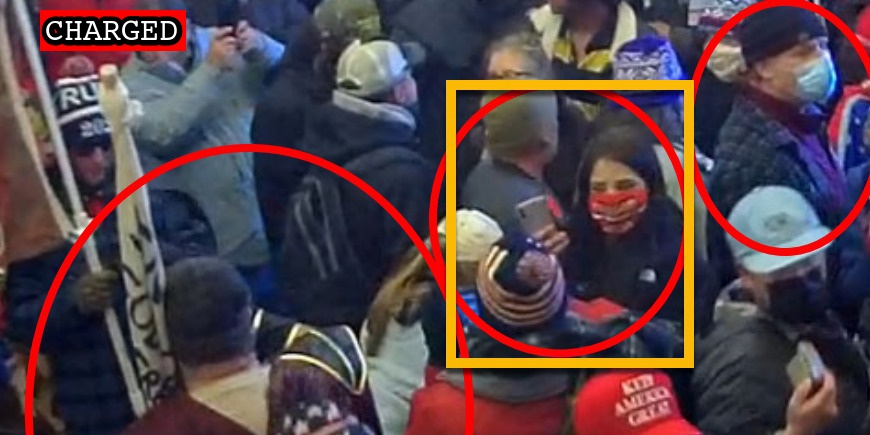
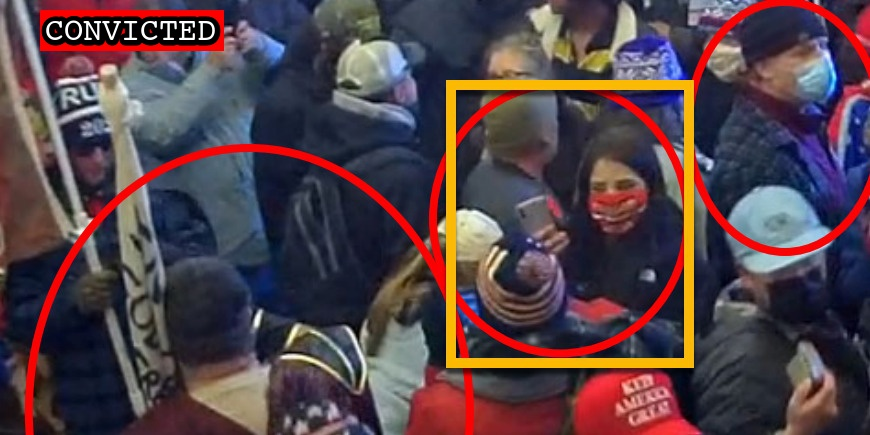
Latest import

Changed region(s): [[0.0621, 0.0, 0.2793, 0.1195]]

diff --git a/docs/_suspects/karegan-bostic.md b/docs/_suspects/karegan-bostic.md
@@ -4,11 +4,11 @@ lastName: Bostic
 hashtag:
 aka:
 residence: Virginia
-status: Charged
+status: Convicted
 date: 2022-05-24
 charged: 2022-05-24
 indicted:
-convicted:
+convicted: 2022-10-31
 acquitted:
 sentenced:
 dismissed:
@@ -40,8 +40,15 @@ caseName: USA v. BOSTIC
 judge: Colleen Kollar-Kotelly
 videos:
 charges:
+- code: 40 USC § 5104(e)(2)(G)
+  title: Parading, demonstrating or picketing in a Capitol building
+  url: https://www.law.cornell.edu/uscode/text/40/5104
+  felony: false
 sentence:
 ---
 - [News Report](https://www.wtkr.com/news/third-member-of-local-family-charged-in-connection-to-riots-at-us-capitol)
 - [Statement of Facts](https://www.justice.gov/usao-dc/case-multi-defendant/file/1509026/download)
 - [Complaint](https://www.justice.gov/usao-dc/case-multi-defendant/file/1509031/download)
+- [Information](https://www.justice.gov/usao-dc/case-multi-defendant/file/1548706/download)
+- [Plea Agreement](https://www.justice.gov/usao-dc/case-multi-defendant/file/1548711/download)
+- [Statement of Offense](https://www.justice.gov/usao-dc/case-multi-defendant/file/1548716/download)

diff --git a/docs/_suspects/melody-steele-smith.md b/docs/_suspects/melody-steele-smith.md
@@ -4,11 +4,11 @@ lastName: Steele-Smith
 hashtag: MelodySteeleSmith
 aka:
 residence: Virginia
-status: Indicted
+status: Convicted
 date: 2021-01-20
 charged: 2021-01-20
 indicted: 2021-02-03
-convicted:
+convicted: 2022-11-01
 acquitted:
 sentenced:
 dismissed:
@@ -40,9 +40,16 @@ caseName: USA v. STEELE-SMITH
 judge: Randolph D. Moss
 videos:
 charges:
+  - code: 18 USC § 1752(a)(1)
+    title: Entering a restricted building or grounds
+    url: https://www.law.cornell.edu/uscode/text/18/1752
+    felony: false
 sentence:
 ---
+
 - [News Report](https://www.msn.com/en-us/news/crime/gloucester-woman-arrested-after-photos-show-her-inside-us-capitol-during-riot/ar-BB1dzAz3)
 - [Complaint](https://www.justice.gov/file/1360206/download)
 - [Statement of Facts](https://www.justice.gov/opa/file/1360206/download)
 - [Indictment](https://www.justice.gov/usao-dc/case-multi-defendant/file/1366136/download)
+- [Plea Agreement](https://www.justice.gov/usao-dc/case-multi-defendant/file/1548726/download)
+- [Statement of Offense](https://www.justice.gov/usao-dc/case-multi-defendant/file/1548721/download)

diff --git a/docs/_suspects/joseph-howe.md b/docs/_suspects/joseph-howe.md
@@ -43,5 +43,5 @@ charges:
 sentence:
 ---
 - [News Report](https://www.courier-journal.com/story/news/crime/2022/10/28/kentucky-man-joseph-howe-charged-january-6-riot-trump-capitol/69600198007/)
-- [Statement of Facts](https://www.justice.gov/usao-dc/press-release/file/1547816/download)
+- [Statement of Facts](https://www.justice.gov/usao-dc/case-multi-defendant/file/1548736/download)
 - [DOJ Press Release](https://www.justice.gov/usao-dc/pr/kentucky-man-arrested-felony-and-misdemeanor-charges-actions-during-jan-6-capitol-breach)
